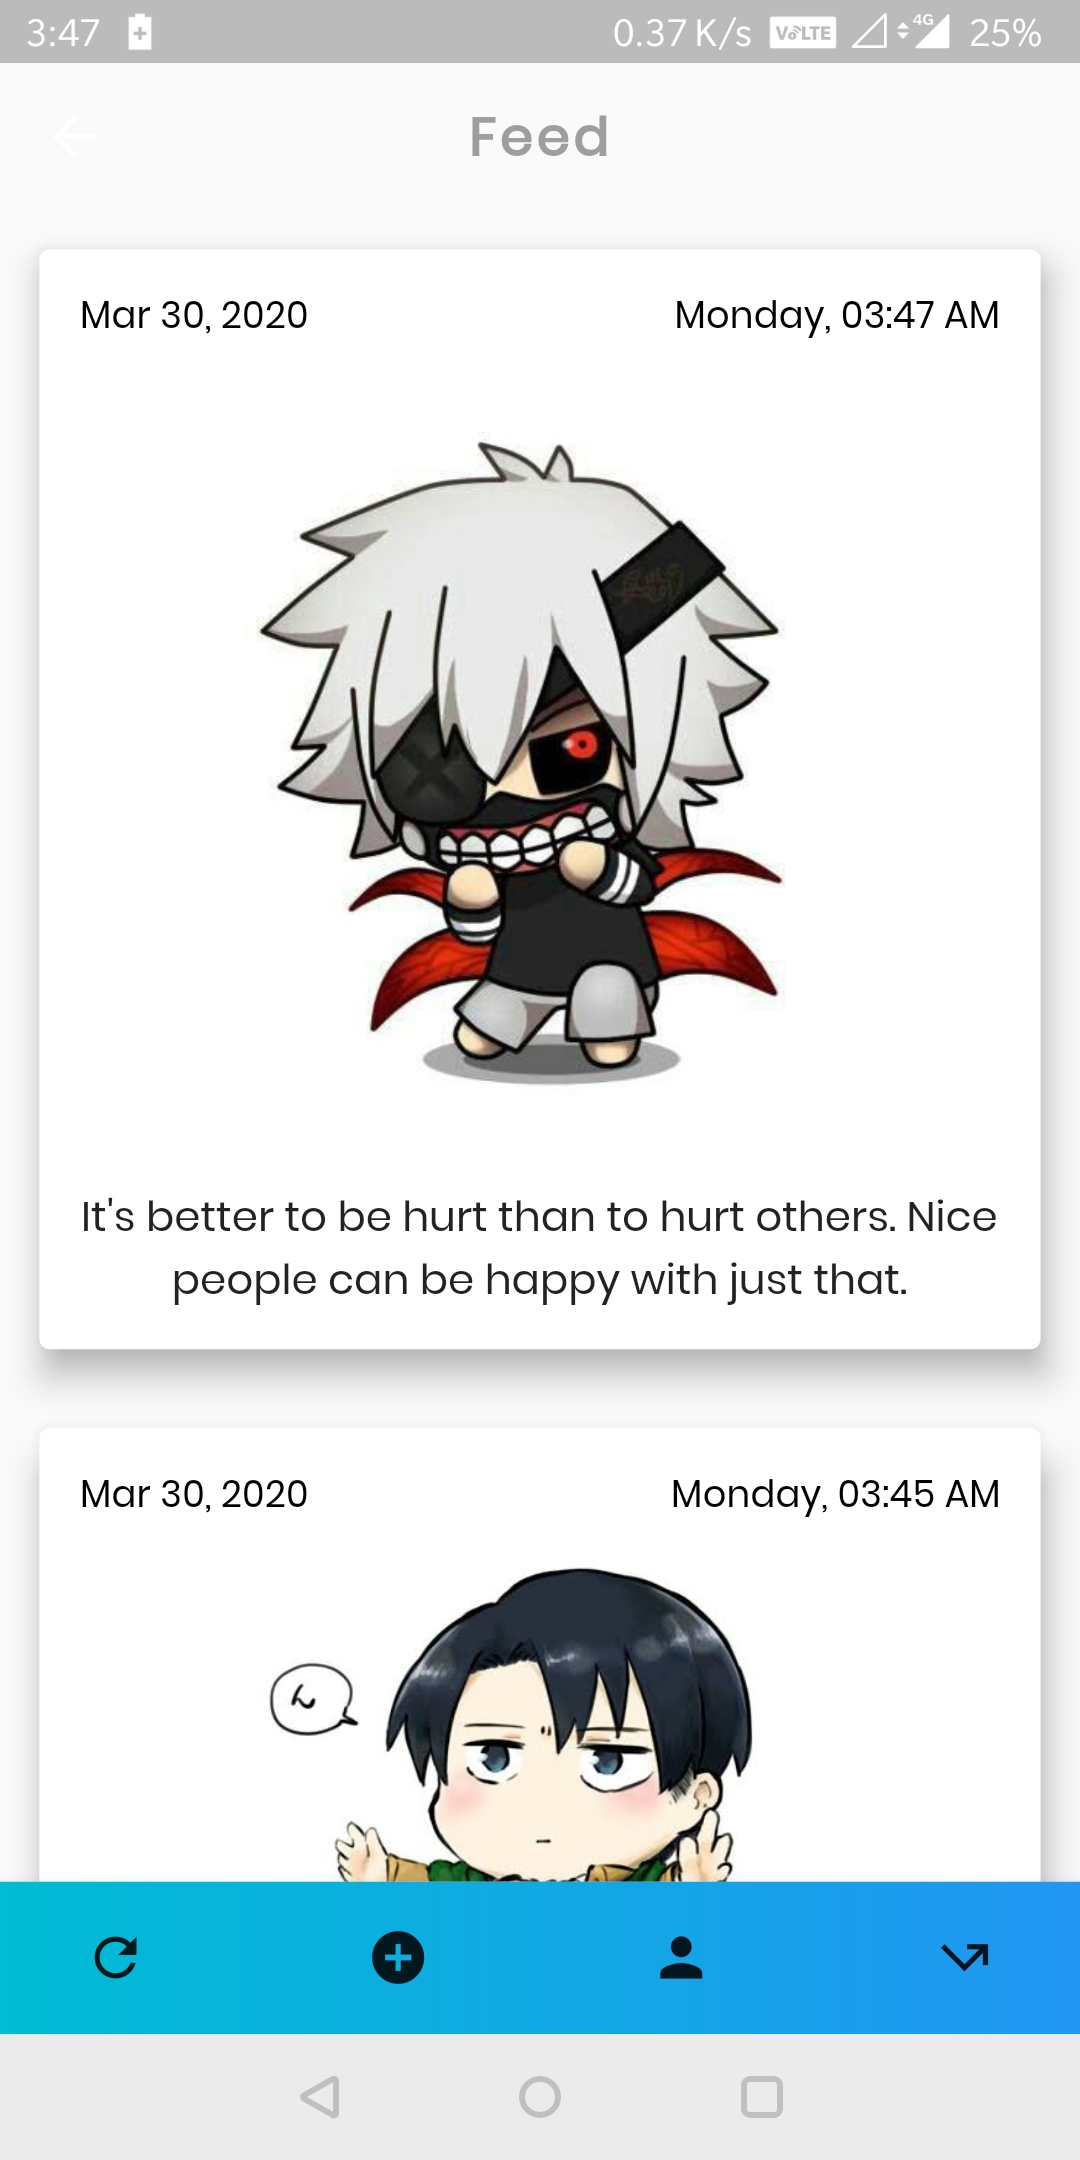
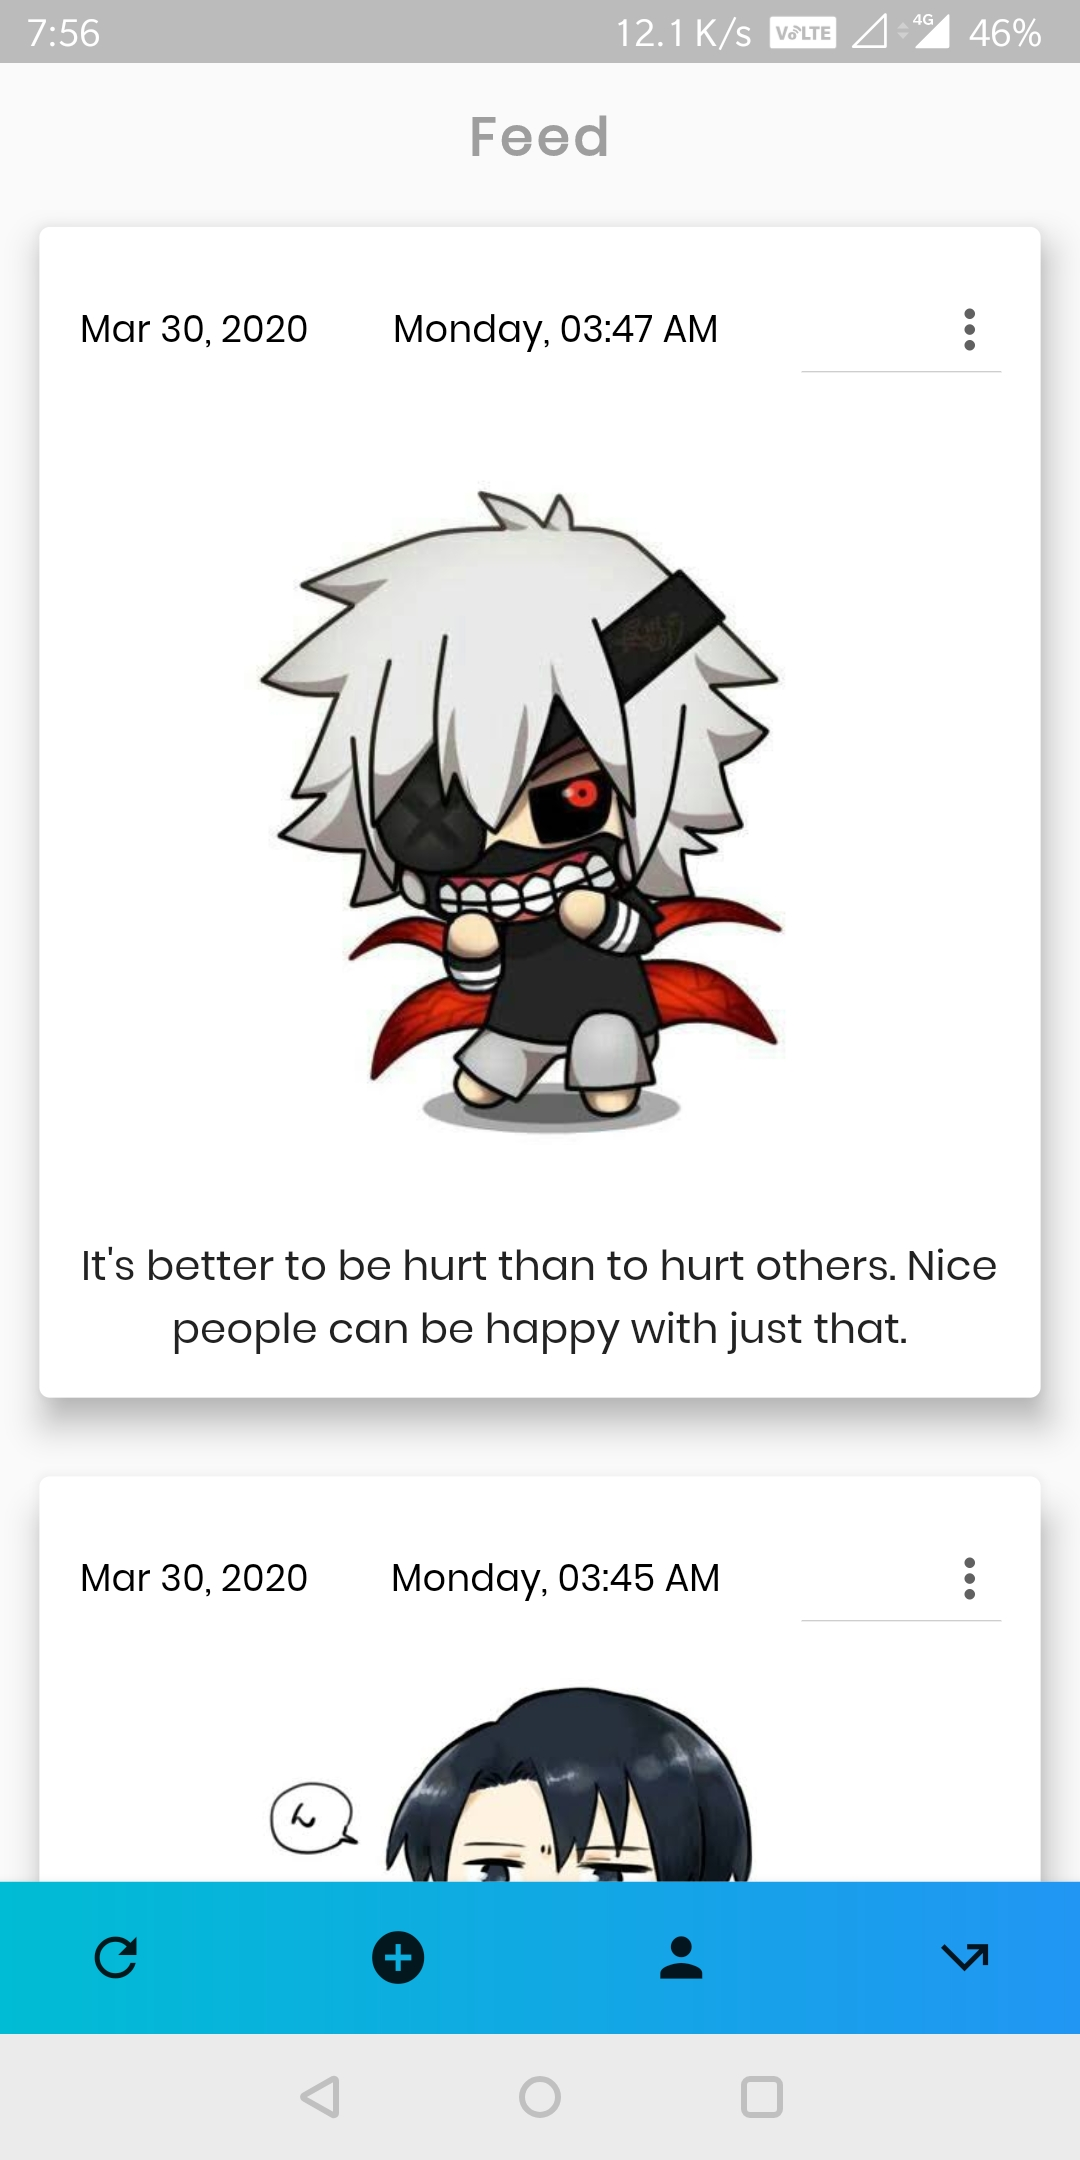
crud

diff --git a/lib/feed.dart b/lib/feed.dart
@@ -20,33 +20,13 @@ class Feed extends StatefulWidget {
 class _FeedState extends State<Feed> {
   List<Post> postList = [];
   File _image;
+  DatabaseReference postRef =
+      FirebaseDatabase.instance.reference().child("posts");
 
   @override
   void initState() {
     super.initState();
-    DatabaseReference postRef =
-        FirebaseDatabase.instance.reference().child("posts");
-    postRef.once().then((DataSnapshot snap) {
-      var postKeys = snap.value.keys;
-      var postData = snap.value;
-
-      postList.clear();
-
-      for (var postKey in postKeys) {
-        Post posts = Post(
-          postData[postKey]['image'],
-          postData[postKey]['desc'],
-          postData[postKey]['date'],
-          postData[postKey]['time'],
-        );
-
-        postList.add(posts);
-
-        setState(() {
-          print('Length : $postList.length');
-        });
-      }
-    });
+    refreshPosts();
   }
 
   void logOutUser() async {
@@ -56,6 +36,92 @@ class _FeedState extends State<Feed> {
     } catch (e) {
       print("error :" + e.toString());
     }
+  }
+
+  void refreshPosts() {
+    postRef.once().then((DataSnapshot snap) {
+      var postKeys = snap.value.keys;
+      var postData = snap.value;
+
+      postList.clear();
+
+      for (var postKey in postKeys) {
+        print("Key : " + postKey);
+        Post posts = Post(
+          postData[postKey]['image'],
+          postData[postKey]['desc'],
+          postData[postKey]['date'],
+          postData[postKey]['time'],
+          postKey.toString(),
+        );
+
+        postList.add(posts);
+
+        setState(() {
+          print('Refreshed Length : $postList.length');
+        });
+      }
+    });
+  }
+
+  Future getDescEdited(String desc) async {
+    TextEditingController textEditingController =
+        TextEditingController(text: desc);
+    await showDialog<String>(
+        context: context,
+        builder: (BuildContext context) {
+          return AlertDialog(
+            content: Row(
+              children: <Widget>[
+                Expanded(
+                    child: TextField(
+                  controller: textEditingController,
+                  autofocus: true,
+                  decoration: InputDecoration(
+                    labelText: 'Edit Caption',
+                  ),
+                ))
+              ],
+            ),
+            actions: <Widget>[
+              FlatButton(
+                  child: Text('Cancel'),
+                  onPressed: () {
+                    Navigator.pop(context);
+                  }),
+              FlatButton(
+                  child: Text('Save'),
+                  onPressed: () {
+                    desc = textEditingController.text.toString();
+                    Navigator.pop(context);
+                  })
+            ],
+          );
+        });
+
+    return desc;
+  }
+
+  void updatePost(Post post, int index) async {
+    String descEdited = await getDescEdited(post.desc);
+    if (descEdited != null) {
+      post.desc = descEdited;
+    }
+    postRef.child(post.postKey).update(post.toJson()).then((_) {
+      print("Updated Post with ID : " + post.postKey);
+      setState(() {
+        postList[index].desc = post.desc;
+      });
+    });
+  }
+
+  void deletePost(Post post, int index) {
+    postRef.child(post.postKey).remove().then((_) {
+      print("Deleted Post with ID : " + post.postKey);
+      setState(() {
+        postList.removeAt(index);
+      });
+    });
   }
 
   @override
@@ -81,20 +147,14 @@ class _FeedState extends State<Feed> {
             : ListView.builder(
                 itemCount: postList.length,
                 itemBuilder: (_, index) {
-                  return postCard(
-                    postList[index].image,
-                    postList[index].desc,
-                    postList[index].date,
-                    postList[index].time,
-                  );
+                  return postCard(postList[index], index);
                 },
               ),
       ),
       bottomNavigationBar: BottomAppBar(
         child: Container(
           decoration: BoxDecoration(
-            gradient:
-                LinearGradient(colors: [Colors.cyan, Colors.blue]),
+            gradient: LinearGradient(colors: [Colors.cyan, Colors.blue]),
           ),
           child: Padding(
             padding: EdgeInsets.only(left: 20, right: 20, top: 5, bottom: 5),
@@ -105,22 +165,26 @@ class _FeedState extends State<Feed> {
                     tooltip: 'Refresh',
                     icon: Icon(Icons.refresh),
                     onPressed: () {
-                      setState(() {});
+                      refreshPosts();
                     }),
                 IconButton(
                     tooltip: 'Add post',
                     icon: Icon(Icons.add_circle),
                     onPressed: () async {
                       await getImage();
-                      if(_image != null){
-                        Navigator.push(context,
-                          MaterialPageRoute(builder: (context) => NewPost(image: _image,)));
+                      if (_image != null) {
+                        Navigator.push(
+                            context,
+                            MaterialPageRoute(
+                                builder: (context) => NewPost(
+                                      image: _image,
+                                    )));
                       }
                     }),
                 IconButton(
                     tooltip: 'Profile',
                     icon: Icon(Icons.person),
-                    onPressed: (){}),
+                    onPressed: () {}),
                 IconButton(
                     tooltip: 'Logout',
                     icon: Icon(Icons.call_missed_outgoing),
@@ -133,14 +197,14 @@ class _FeedState extends State<Feed> {
     );
   }
 
-  Future getImage() async{
+  Future getImage() async {
     var image = await ImagePicker.pickImage(source: ImageSource.gallery);
     setState(() {
-      _image=image;
-    }); 
+      _image = image;
+    });
   }
 
-  Widget postCard(String image, String desc, String date, String time) {
+  Widget postCard(Post post, int index) {
     return Card(
       elevation: 10,
       margin: EdgeInsets.all(15),
@@ -153,14 +217,31 @@ class _FeedState extends State<Feed> {
               mainAxisAlignment: MainAxisAlignment.spaceBetween,
               children: <Widget>[
                 Text(
-                  date,
+                  post.date,
                   textAlign: TextAlign.center,
                   style: Theme.of(context).textTheme.subtitle,
                 ),
                 Text(
-                  time,
+                  post.time,
                   textAlign: TextAlign.center,
                   style: Theme.of(context).textTheme.subtitle,
+                ),
+                DropdownButton(
+                  icon: Icon(Icons.more_vert),
+                  items: <String>['Edit', 'Delete']
+                      .map<DropdownMenuItem<String>>((String value) {
+                    return DropdownMenuItem<String>(
+                      value: value,
+                      child: Text(value),
+                    );
+                  }).toList(),
+                  onChanged: (String value) {
+                    if (value == 'Delete') {
+                      deletePost(post, index);
+                    } else if (value == 'Edit') {
+                      updatePost(post, index);
+                    }
+                  },
                 ),
               ],
             ),
@@ -168,7 +249,7 @@ class _FeedState extends State<Feed> {
               height: 10,
             ),
             Image.network(
-              image,
+              post.image,
               fit: BoxFit.contain,
               height: 300,
               width: 600,
@@ -177,7 +258,7 @@ class _FeedState extends State<Feed> {
               height: 10,
             ),
             Text(
-              desc,
+              post.desc,
               textAlign: TextAlign.center,
               style: Theme.of(context).textTheme.subhead,
             ),

diff --git a/lib/login.dart b/lib/login.dart
@@ -160,8 +160,7 @@ class _LoginState extends State<Login> {
           child: Container(
             width: 100,
             decoration: BoxDecoration(
-                gradient: LinearGradient(
-                    colors: [Colors.cyan, Colors.blue]),
+                gradient: LinearGradient(colors: [Colors.cyan, Colors.blue]),
                 borderRadius: BorderRadius.circular(6.0),
                 boxShadow: [
                   BoxShadow(
@@ -198,8 +197,7 @@ class _LoginState extends State<Login> {
           child: Container(
             width: 100,
             decoration: BoxDecoration(
-                gradient: LinearGradient(
-                    colors: [Colors.cyan, Colors.blue]),
+                gradient: LinearGradient(colors: [Colors.cyan, Colors.blue]),
                 borderRadius: BorderRadius.circular(6.0),
                 boxShadow: [
                   BoxShadow(

diff --git a/lib/post.dart b/lib/post.dart
@@ -1,4 +1,14 @@
-class Post{
-  String image,desc,date,time;
-  Post(this.image,this.desc,this.date,this.time);
+class Post {
+  String image, desc, date, time;
+  String postKey;
+  Post(this.image, this.desc, this.date, this.time, this.postKey);
+
+  toJson() {
+    return {
+      'image': image,
+      'desc': desc,
+      'date': date,
+      'time': time,
+    };
+  }
 }
